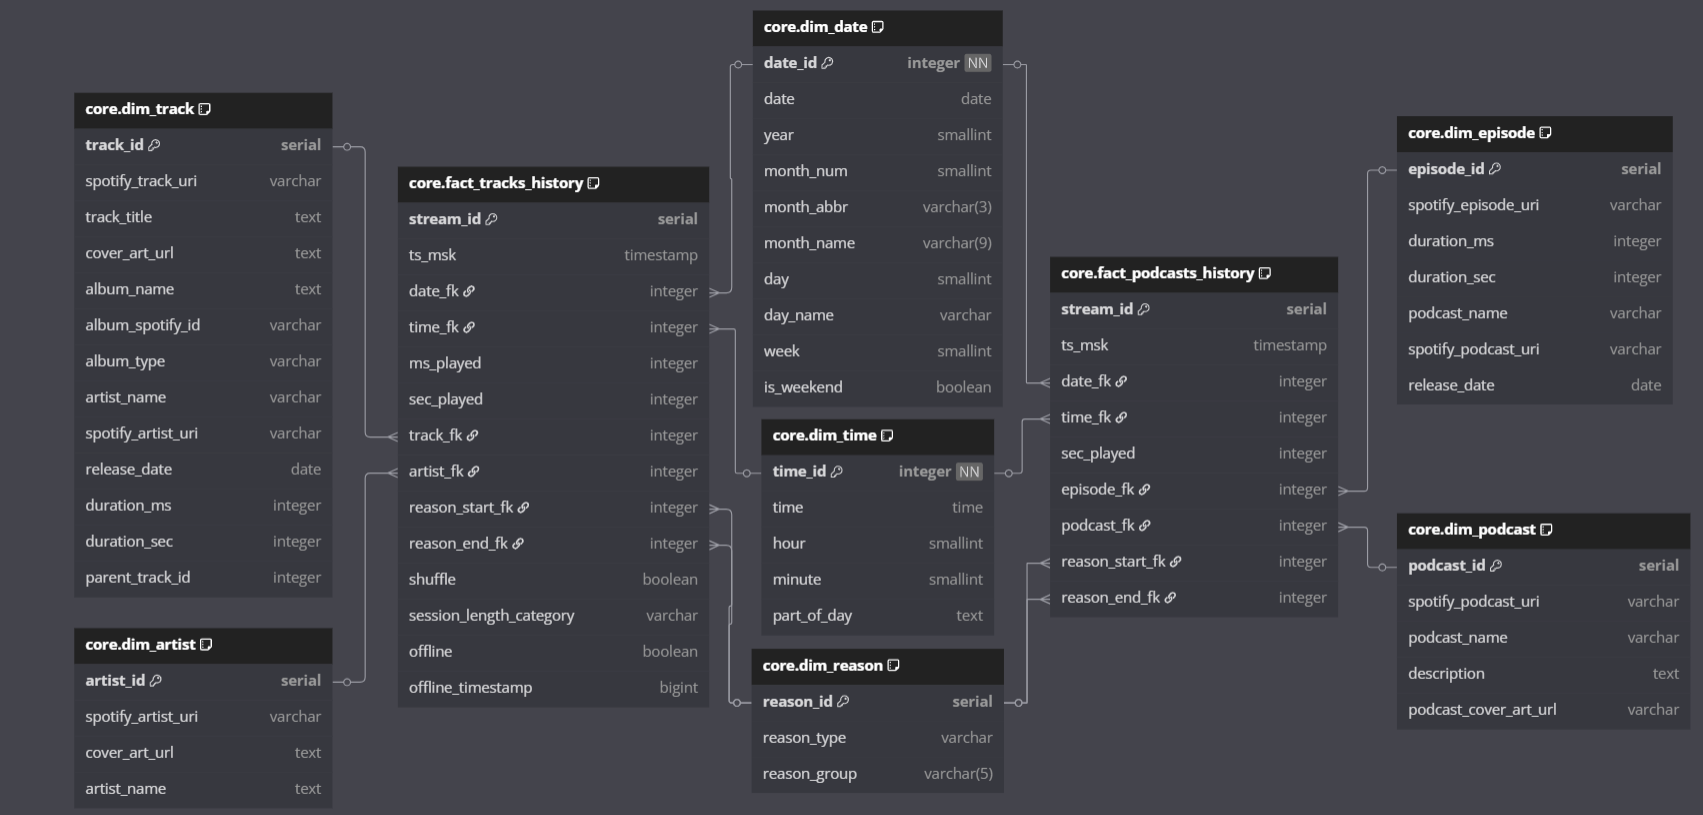
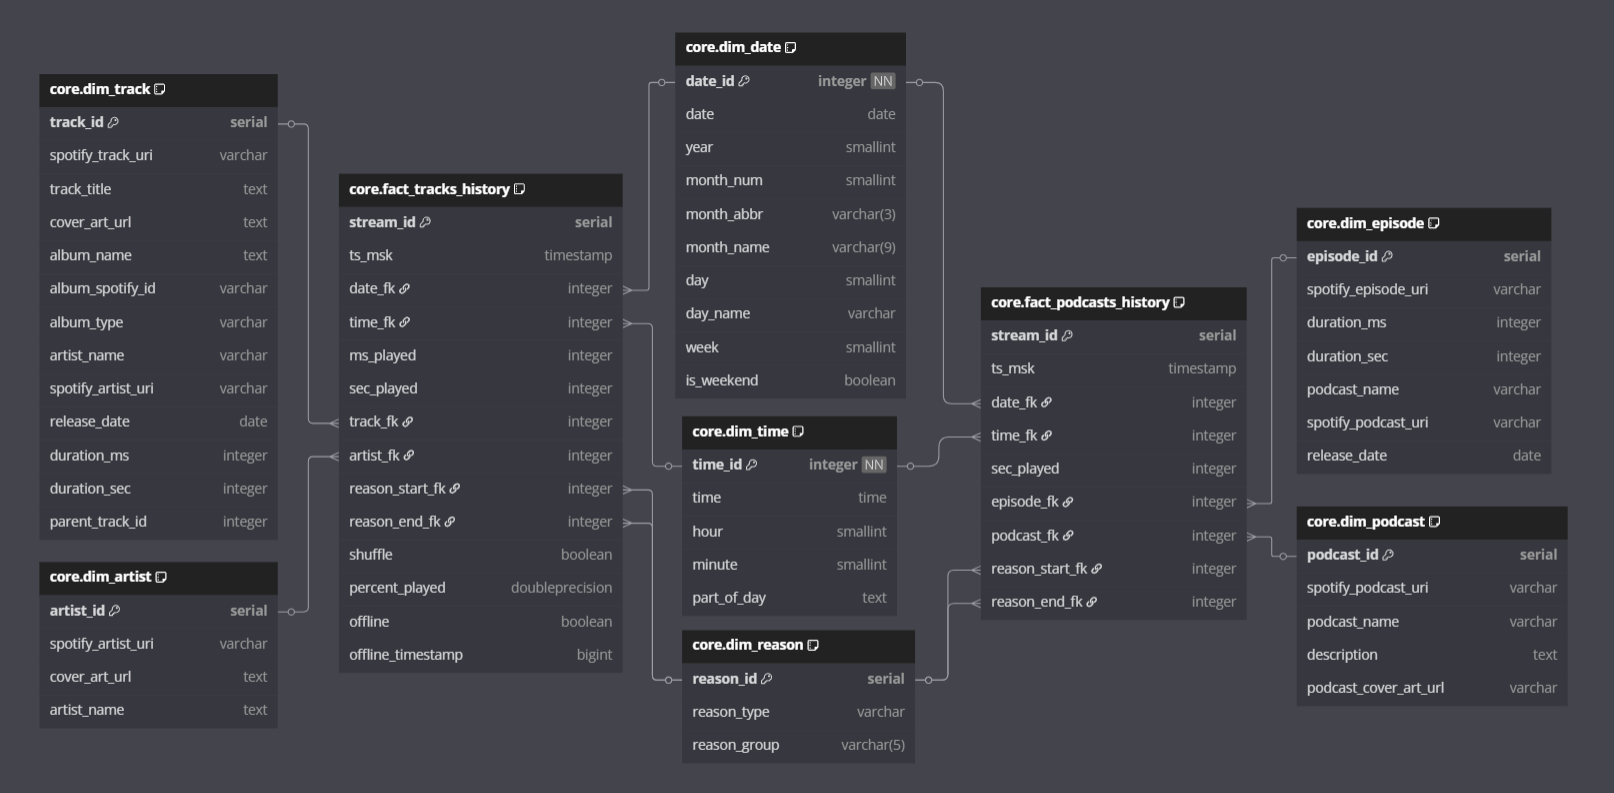
docs: reflect schema change

diff --git a/README.md b/README.md
@@ -44,7 +44,7 @@ A custom-built data pipeline that extracts personal Spotify streaming history, e
 - Fetches metadata from the Spotify API in batches (handles rate limits and errors)
 - Stores raw data in a staging schema (inside jsonb columns)
 - Transforms and loads clean, normalized records into a star schema
-- Populates fact tables with calculated fields (e.g. session length category)
+- Populates fact tables with calculated fields (e.g. percent_played)
 - Maintains re-runnable logic with deduplication and delta loads
 - Tracks failed API responses for manual review
 - Truncates staging layer after the process is done
